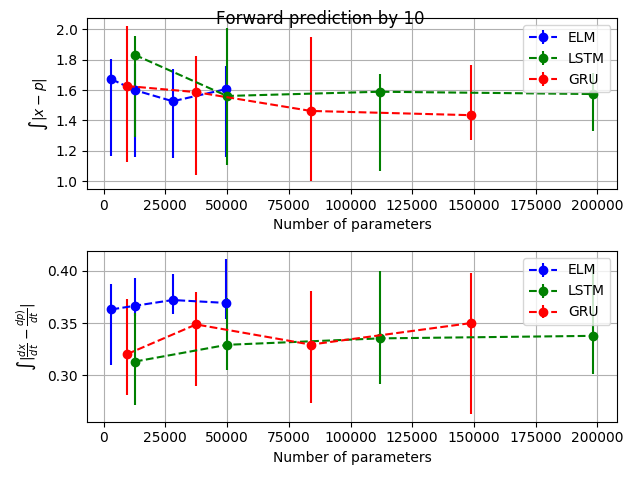
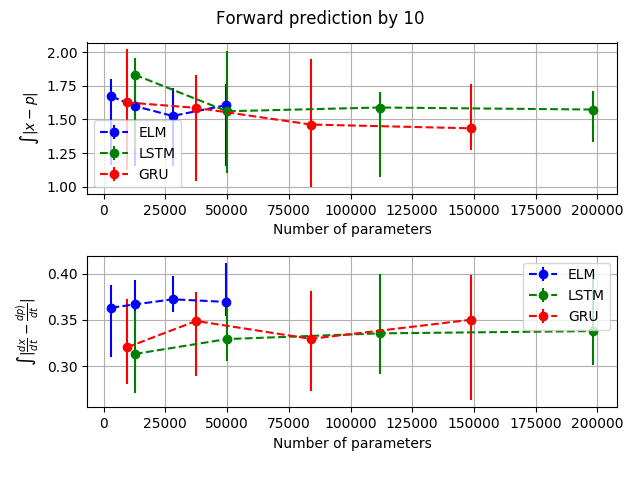
Figure update

diff --git a/Mackey_Glass/eval_mg1.py b/Mackey_Glass/eval_mg1.py
@@ -156,7 +156,7 @@ def scatter_plot(base,i,n_test):
     plt.legend()
     plt.ylabel('$\\int| \\frac{dx}{dt}-\\frac{dp)}{dt}|$')
     plt.xlabel('Number of parameters')
-    plt.tight_layout()
+    plt.tight_layout(rect=[0,0.03,1,0.95])
     outdir='/home/peter/Documents/CSCI4192/Chaos/figures/'
     plt.grid(True)
     plt.savefig('{}/mg1_scatter_{}.png'.format(outdir,i))
@@ -352,7 +352,7 @@ if __name__=='__main__':
 
     spacing=100
     data=np.load('{}/data{}.npy'.format(base,ident))
-    i=1
+    i=30
     mname='MLP'
     predy=np.load('{}/{}_{}_H{}a.npy'.format(base,mname,i,hidden_nodes))
     
@@ -375,6 +375,6 @@ if __name__=='__main__':
     #box_plot(P,testy,mname,i)
     print(predy.shape)
     
-    #scatter_plot(base,i,predy.shape[0])
+    scatter_plot(base,i,predy.shape[0])
     #time_plot(base)
-    ttest(base,i,predy.shape[0])
+    #ttest(base,i,predy.shape[0])

diff --git a/Mackey_Glass/eval_mg2.py b/Mackey_Glass/eval_mg2.py
@@ -96,7 +96,7 @@ def scatter_plot(base,i,n_test):
     plt.ylabel('$\\int| \\frac{dx}{dt}-\\frac{dp)}{dt}|$')
     plt.xlabel('Number of parameters')
     plt.grid(True)
-    plt.tight_layout()
+    plt.tight_layout(rect=[0,0.03,1,0.95])
     outdir='/home/peter/Documents/CSCI4192/Chaos/figures/'
     plt.savefig('{}/mg2_scatter_{}.png'.format(outdir,i))
     #plt.show()
@@ -323,7 +323,7 @@ if __name__=='__main__':
 
     spacing=100
     data=np.load('{}/data{}.npy'.format(base,ident))
-    i=30
+    i=5
     mname='LSTM'
     predy=np.load('{}/{}_{}_H{}c.npy'.format(base,mname,i,hidden_nodes))
 
@@ -344,6 +344,6 @@ if __name__=='__main__':
     #box_plot(P,testy,mname,i)
     print(predy.shape)
     
-    #scatter_plot(base,i,predy.shape[0])
+    scatter_plot(base,i,predy.shape[0])
     #time_plot(base)
-    ttest(base,i,predy.shape[0])
+    #ttest(base,i,predy.shape[0])
